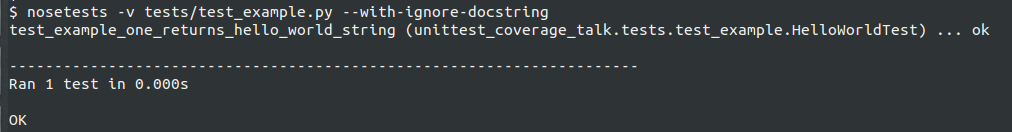
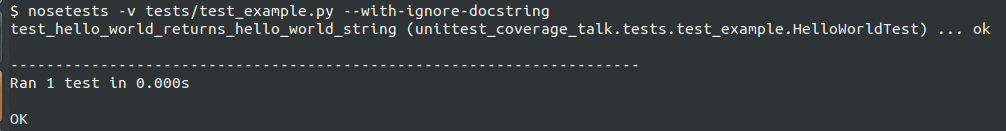
renamed test for example_one and updated screenshot

diff --git a/unittest_coverage_talk/tests/test_example.py b/unittest_coverage_talk/tests/test_example.py
@@ -10,7 +10,7 @@ class HelloWorldTest(unittest.TestCase):
         from unittest_coverage_talk.example import hello_world
         return hello_world()
 
-    def test_example_one_returns_hello_world_string(self):
+    def test_hello_world_returns_hello_world_string(self):
         '''
 	Test that the string returned by hello_world method is equal to "Hello World"
         '''
